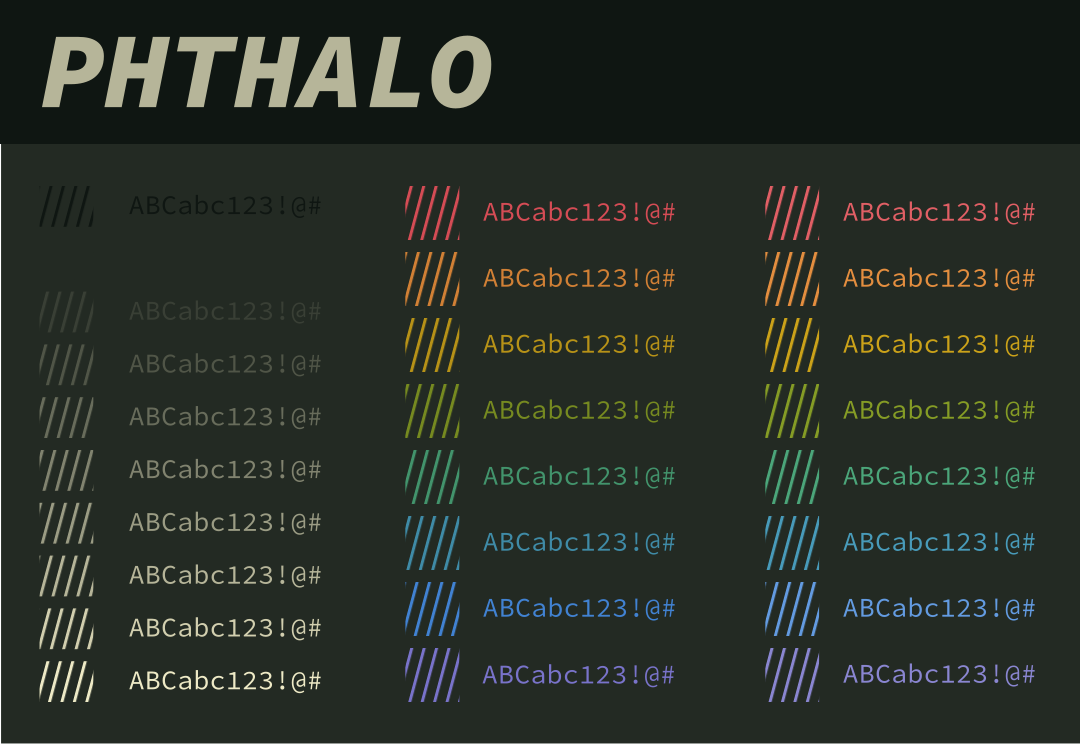
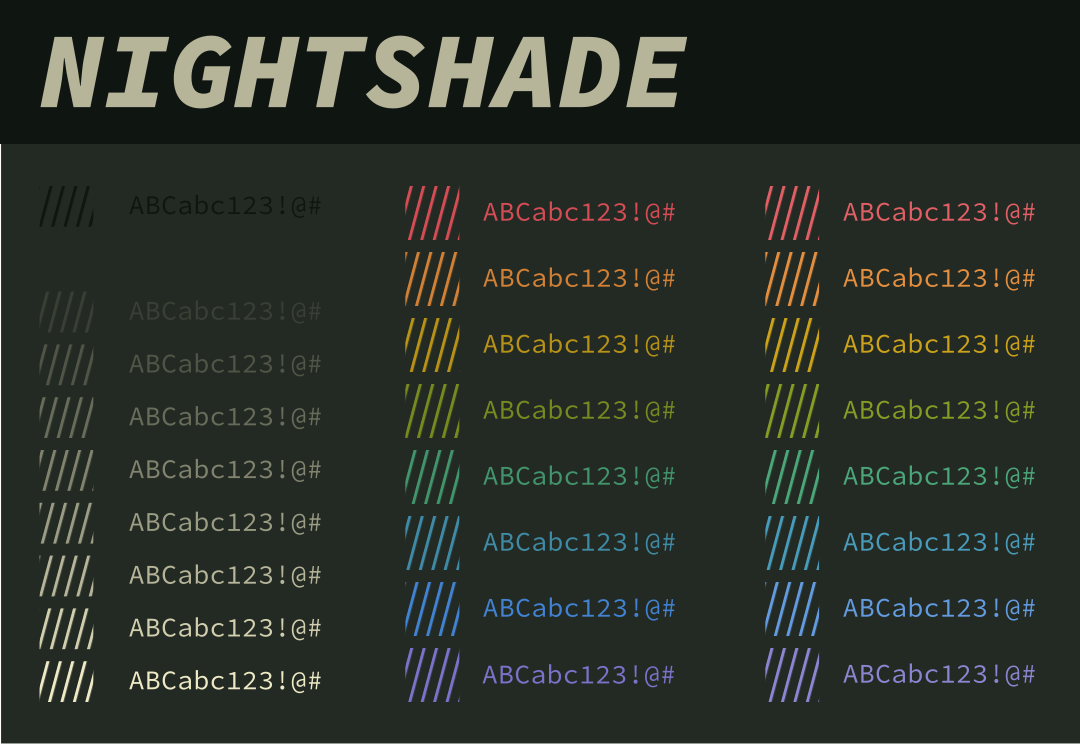
Rename to nightshade

Changed region(s): [[0.275, 0.0309, 0.6417, 0.1546], [0.0306, 0.0309, 0.2139, 0.1546]]

diff --git a/README.md b/README.md
@@ -1,3 +1,3 @@
-# PHTHALO
+# Nightshade
 
-![The pthalo color pallete for dark mode](palette_dark.png)
+![The dark mode color palette for nightshade](palette_dark.png)
